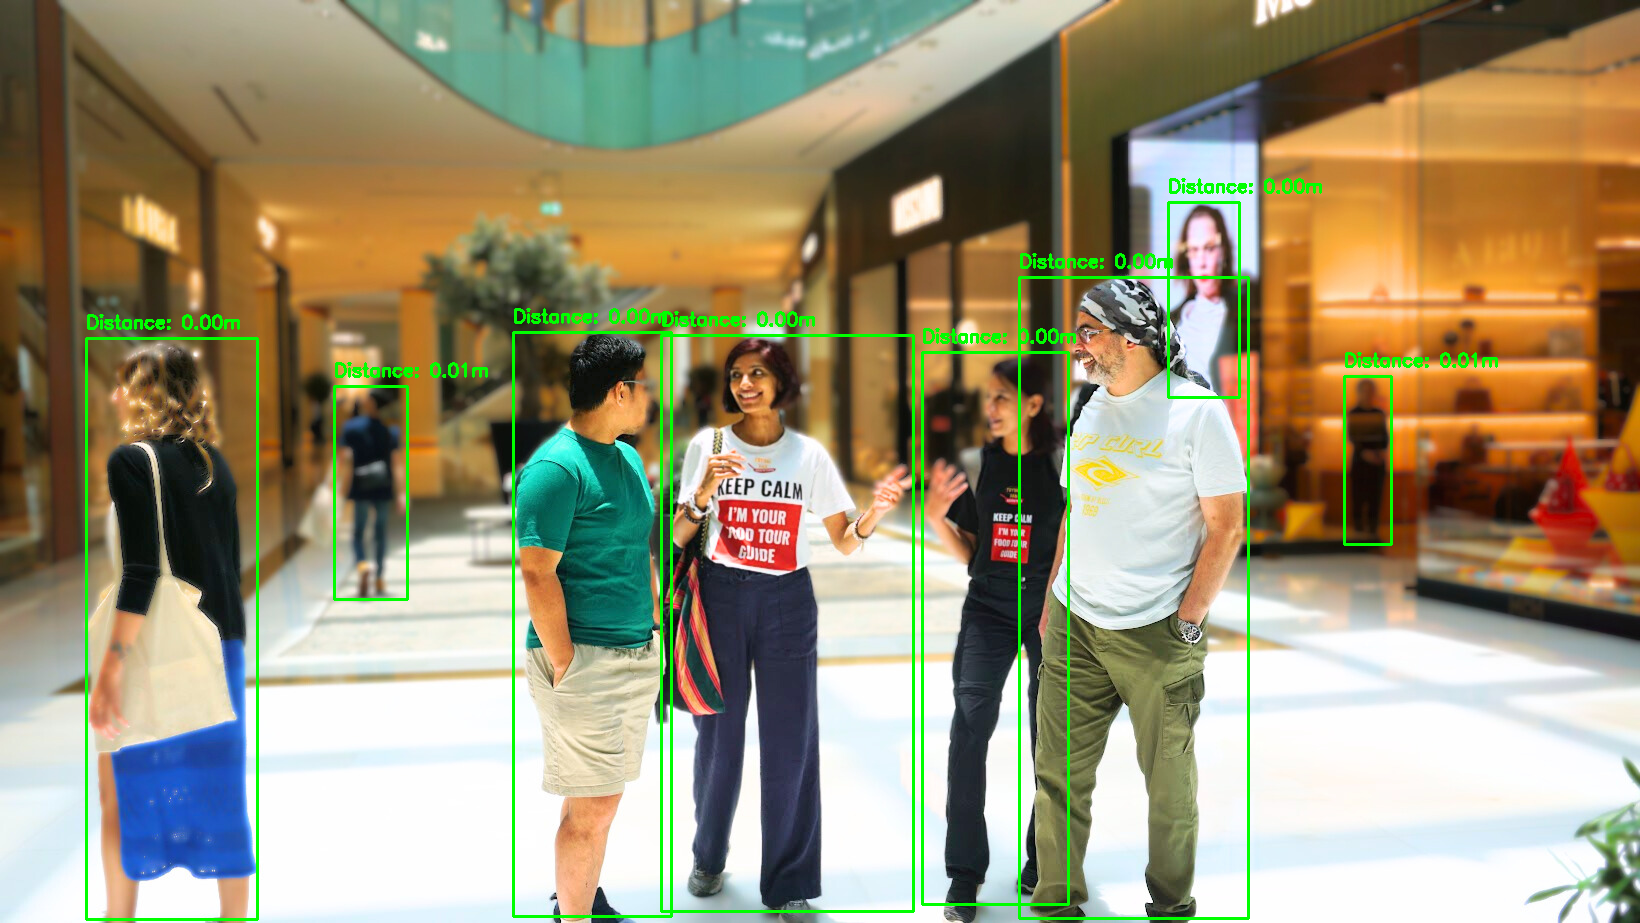
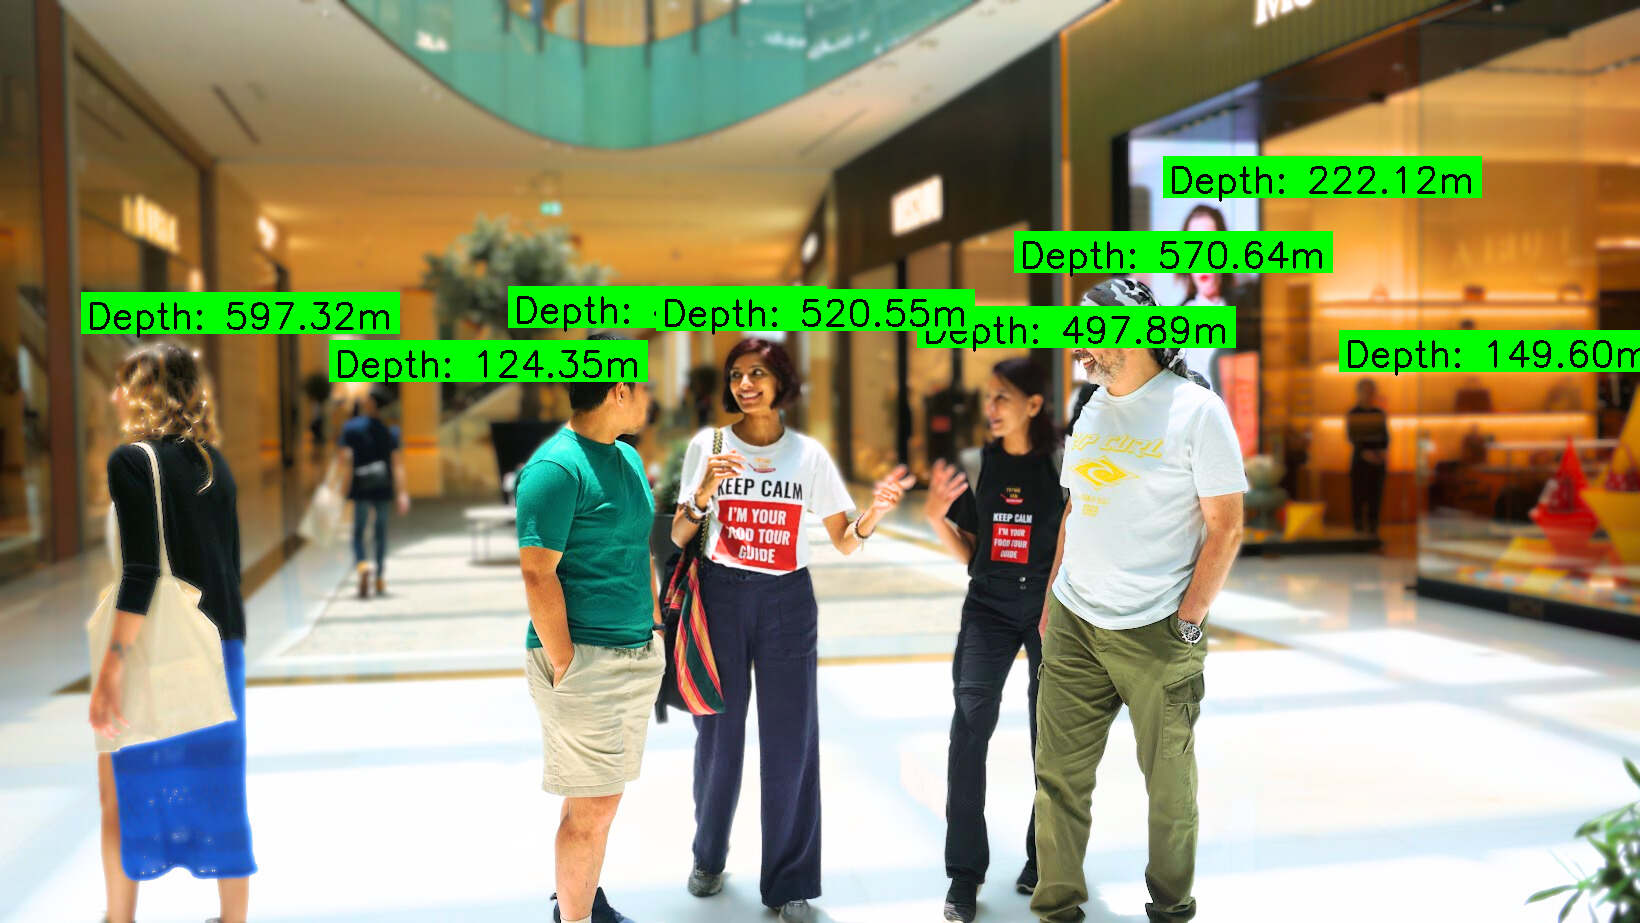
added general depth for object boxes in mm roughly

diff --git a/depth/depth_perseption.py b/depth/depth_perseption.py
@@ -14,6 +14,13 @@ import cv2
 import numpy as np
 import torch
 
+try:
+    from ultralytics import YOLO  # type: ignore[import]
+except ImportError as exc:
+    raise ImportError(
+        "The ultralytics package is required. Install it with `pip install ultralytics`."
+    ) from exc
+
 
 def parse_args():
     parser = argparse.ArgumentParser(description="Quick MiDaS relative-depth camera test.")
@@ -77,9 +84,55 @@ def colorize_depth(depth_map):
     return cv2.applyColorMap(depth_uint8, cv2.COLORMAP_MAGMA)
 
 
+def load_yolo(model_path):
+    yolo_model = YOLO(str(model_path))
+    return yolo_model
+
+
+def draw_yolo_boxes(frame, yolo_model, depth_map=None):
+    results = yolo_model(frame)
+    for result in results:
+        boxes = result.boxes.xyxy.cpu().numpy()
+        classes = result.boxes.cls.cpu().numpy()
+        for box, cls in zip(boxes, classes):
+            x1, y1, x2, y2 = map(int, box[:4])
+            label = result.names[int(cls)]
+            cv2.rectangle(frame, (x1, y1), (x2, y2), (0, 255, 0), 2)
+
+            if depth_map is not None:
+                center_x = np.clip((x1 + x2) // 2, 0, depth_map.shape[1] - 1)
+                center_y = np.clip((y1 + y2) // 2, 0, depth_map.shape[0] - 1)
+                depth_value = float(depth_map[center_y, center_x])
+                label = f"{label}: {depth_value:.2f}mm"
+
+            text = label
+            font = cv2.FONT_HERSHEY_SIMPLEX
+            font_scale = 0.6
+            font_thickness = 2
+            text_size = cv2.getTextSize(text, font, font_scale, font_thickness)[0]
+            text_x = x1
+            text_y = max(y1 - 10, text_size[1] + 10)
+            rect_x1 = text_x - 5
+            rect_y1 = text_y - text_size[1] - 5
+            rect_x2 = text_x + text_size[0] + 5
+            rect_y2 = text_y + 5
+
+            cv2.rectangle(frame, (rect_x1, rect_y1), (rect_x2, rect_y2), (0, 255, 0), -1)
+            cv2.putText(
+                frame,
+                text,
+                (text_x, text_y),
+                font,
+                font_scale,
+                (0, 0, 0),
+                font_thickness,
+            )
+
+
 def run_camera(camera_index, model_type, device_name):
     device = get_device(device_name)
     model, transform = load_midas(model_type, device)
+    yolo_model = load_yolo(PROJECT_ROOT / "yolo11s.pt")
     camera = cv2.VideoCapture(camera_index)
 
     if not camera.isOpened():
@@ -93,6 +146,9 @@ def run_camera(camera_index, model_type, device_name):
 
             depth_map = estimate_depth(frame, model, transform, device)
             depth_preview = colorize_depth(depth_map)
+
+            # Run YOLO detection and overlay boxes with depth
+            draw_yolo_boxes(frame, yolo_model, depth_map)
 
             cv2.imshow("Camera", frame)
             cv2.imshow("MiDaS Relative Depth", depth_preview)

diff --git a/depth/test_depth.py b/depth/test_depth.py
@@ -71,27 +71,26 @@ yolo_with_distance = cv2.imread(image_path)
 # Add YOLO detections and depth information to the copy
 for x1, y1, x2, y2 in person_boxes:
     # Draw bounding box
-    cv2.rectangle(yolo_with_distance, (x1, y1), (x2, y2), (0, 255, 0), 2)
-    
-    # Extract depth values within the bounding box
-    box_depth = depth_map[y1:y2, x1:x2]
-    
-    # Calculate average depth and convert to distance in meters
-    # MiDaS outputs inverse depth, so we take the reciprocal and scale
-    avg_depth = np.mean(box_depth)
-    distance_m = 1.0 / (avg_depth + 1e-6)  # Avoid division by zero
-    
-    # Display distance on the image
-    text = f"Distance: {distance_m:.2f}m"
-    cv2.putText(
-        yolo_with_distance,
-        text,
-        (x1, y1 - 10),
-        cv2.FONT_HERSHEY_SIMPLEX,
-        0.6,
-        (0, 255, 0),
-        2,
-    )
+    center_x = (x1 + x2) // 2
+    center_y = (y1 + y2) // 2
+
+    depth_value = depth_map[center_y, center_x]
+
+    text = f"Depth: {depth_value:.2f}mm"
+    font = cv2.FONT_HERSHEY_SIMPLEX
+    font_scale = 1.2
+    font_thickness = 2
+    text_size = cv2.getTextSize(text, font, font_scale, font_thickness)[0]
+
+    text_x = x1
+    text_y = y1 - 10
+    rect_x1 = text_x - 5
+    rect_y1 = text_y - text_size[1] - 10
+    rect_x2 = text_x + text_size[0] + 5
+    rect_y2 = text_y + 5
+
+    cv2.rectangle(yolo_with_distance, (rect_x1, rect_y1), (rect_x2, rect_y2), (0, 255, 0), -1)
+    cv2.putText(yolo_with_distance, text, (text_x, text_y), font, font_scale, (0, 0, 0), font_thickness)
 
 cv2.imshow("YOLO Detection with Distance", yolo_with_distance)
 cv2.waitKey(0)